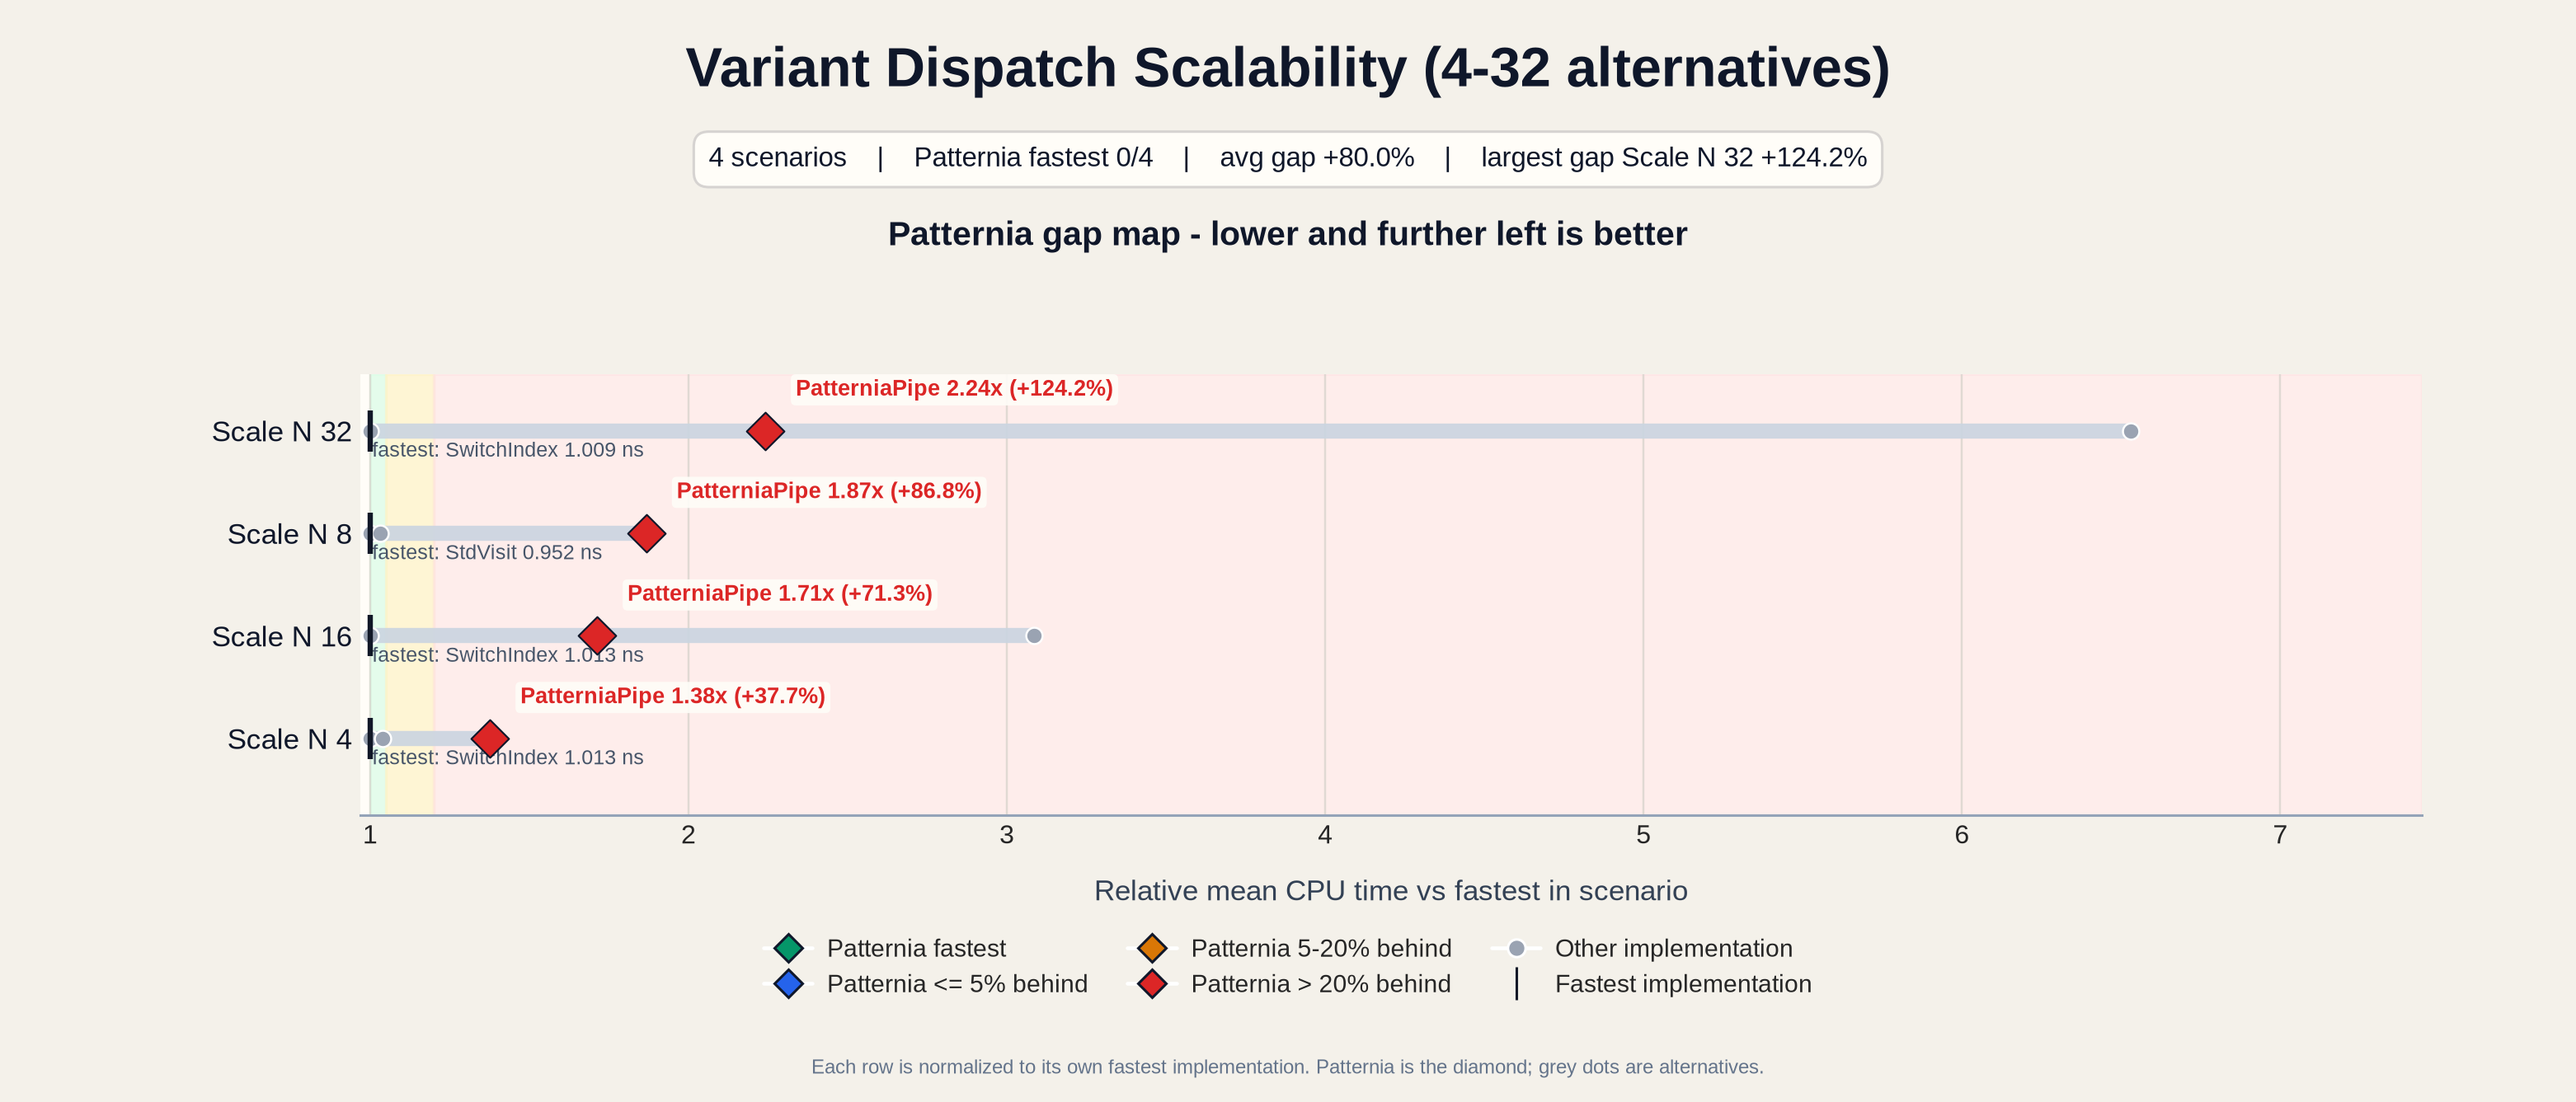
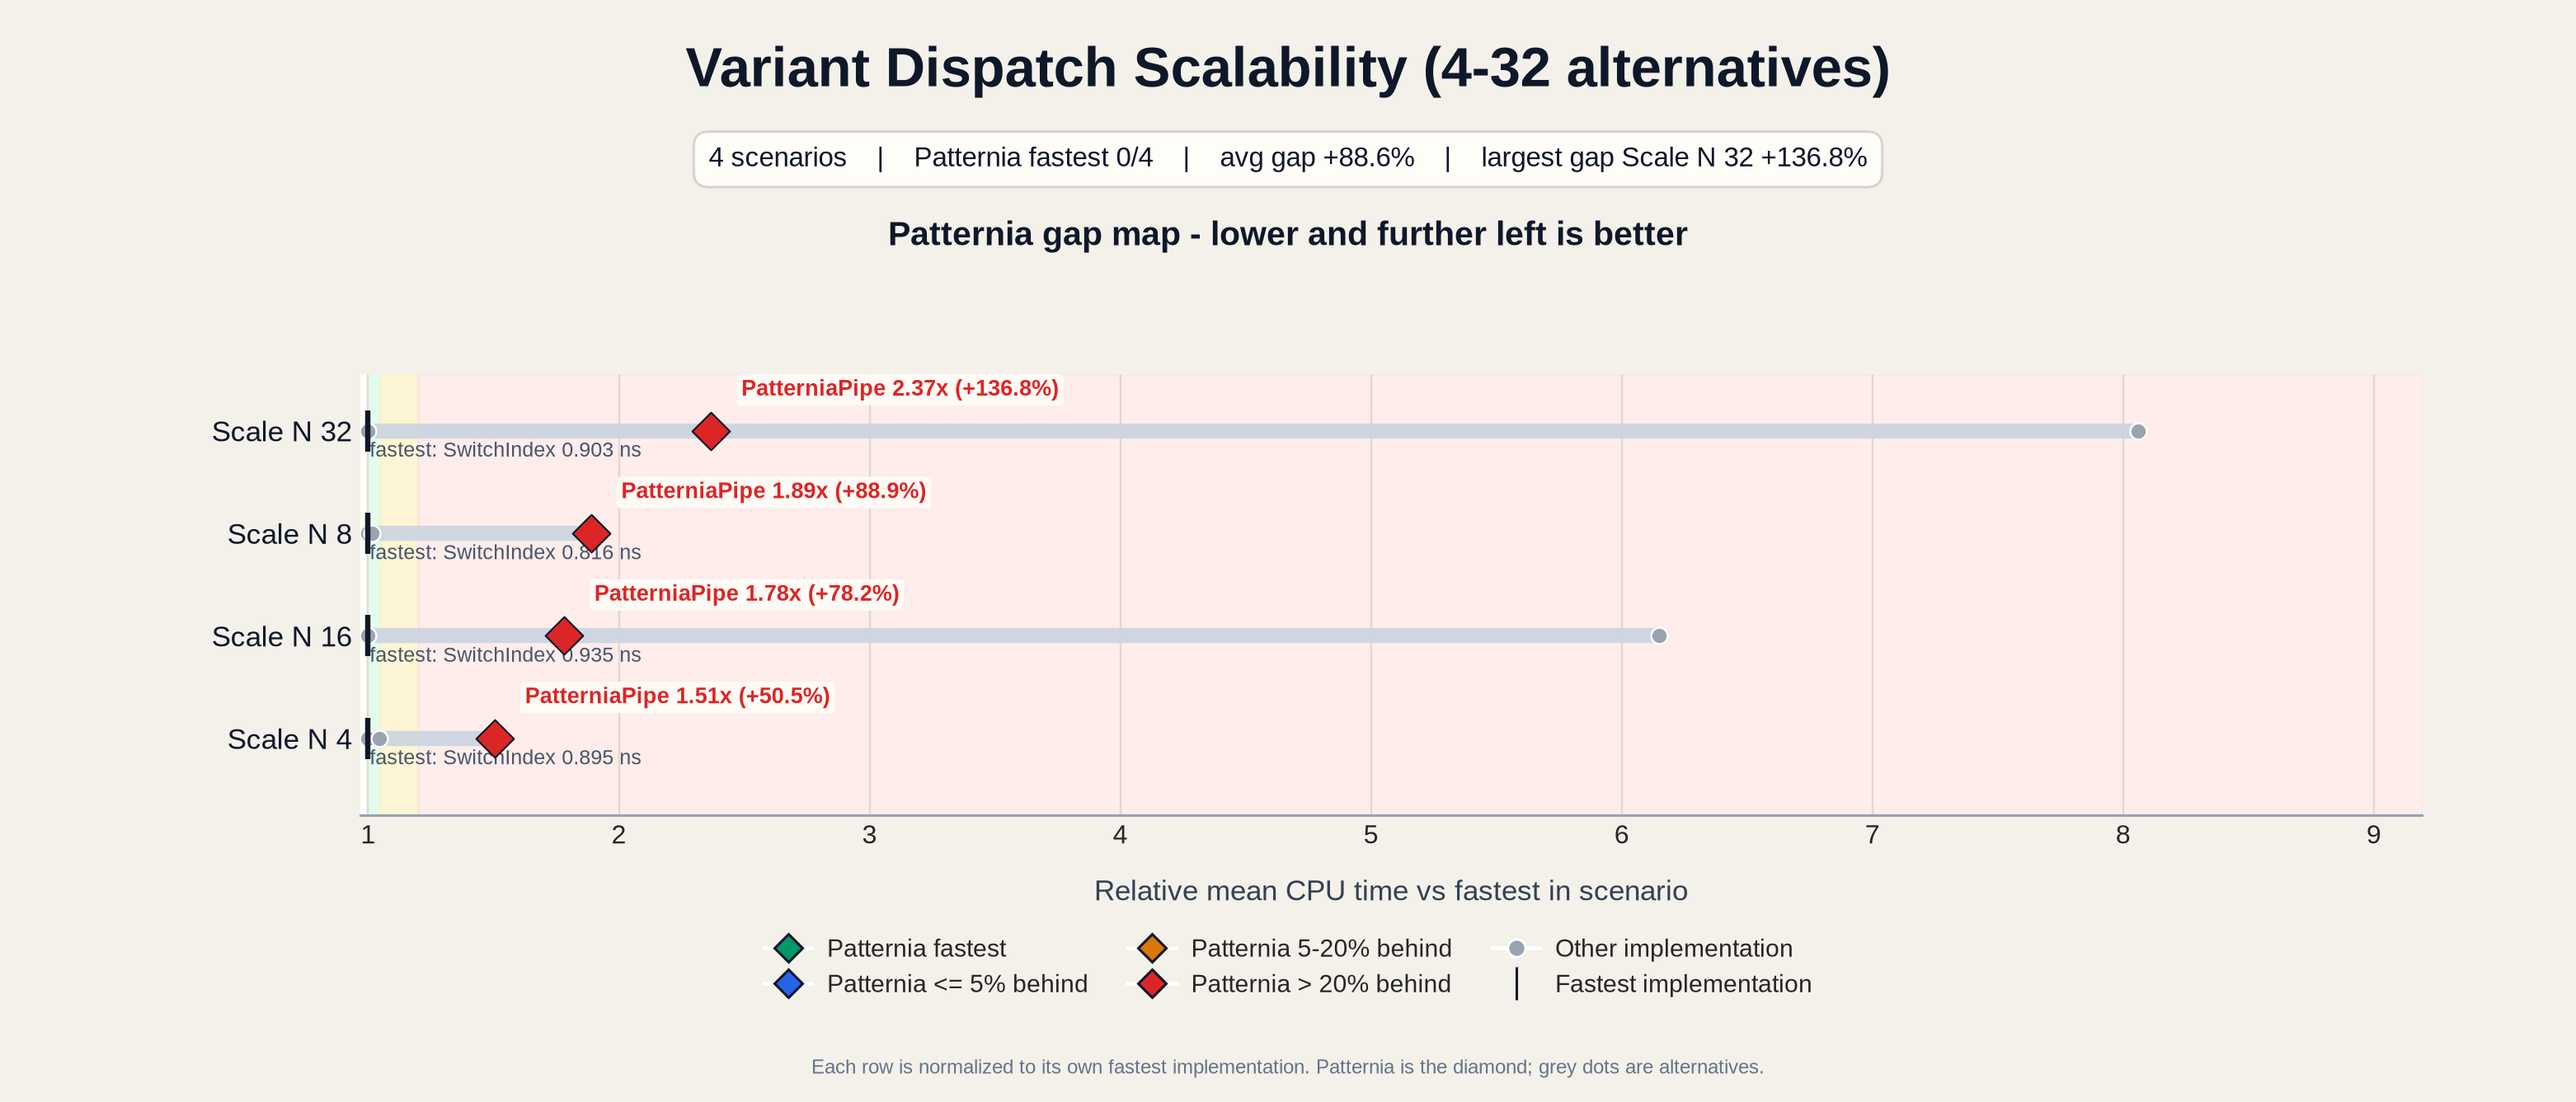
ci: update benchmark summary chart

diff --git a/docs/assets/bench/latest.md b/docs/assets/bench/latest.md
@@ -2,22 +2,22 @@
 
 - Source: `bench_results/ptn_bench.json`
 - Scenarios: `8`
-- Patternia fastest: `2/8`
-- Average Patternia gap vs fastest: `+32.83%`
-- Largest Patternia gap: `VariantMixed` `+99.40%` vs `SwitchIndex`
+- Patternia fastest: `1/8`
+- Average Patternia gap vs fastest: `+24.60%`
+- Largest Patternia gap: `VariantMixed` `+98.42%` vs `SwitchIndex`
 
 ## Patternia Focus
 
 | Scenario | Patternia impl | Rank | Patternia mean (ns) | Fastest | Fastest mean (ns) | Gap vs fastest | Patternia CV % | Status |
 |---|---:|---:|---:|---:|---:|---:|---:|---:|
-| VariantMixed | PatterniaPipe | 3/4 | 2.130 | SwitchIndex | 1.068 | +99.40% | 0.21 | slow |
-| VariantMixedGuarded | PatterniaPipe | 3/4 | 2.100 | SwitchIndex | 1.156 | +81.69% | 3.44 | slow |
-| CommandParser | PatterniaPipe | 4/4 | 2.011 | StdVisit | 1.427 | +40.89% | 1.53 | slow |
-| PacketMixedHeavyBind | PatterniaPipe | 2/2 | 1.961 | Switch | 1.600 | +22.54% | 0.85 | slow |
-| PacketMixed | PatterniaPipe | 2/2 | 1.819 | Switch | 1.548 | +17.56% | 0.13 | watch |
-| ProtocolRouter | PatterniaPipe | 2/4 | 1.701 | StdVisit | 1.692 | +0.55% | 0.72 | close |
-| VariantAltHot | PatterniaPipe | 1/4 | 1.761 | PatterniaPipe | 1.761 | +0.00% | 0.76 | fastest |
-| VariantAltHotGuarded | PatterniaPipe | 1/4 | 1.930 | PatterniaPipe | 1.930 | +0.00% | 1.04 | fastest |
+| VariantMixed | PatterniaPipe | 4/4 | 1.998 | SwitchIndex | 1.007 | +98.42% | 0.22 | slow |
+| VariantMixedGuarded | PatterniaPipe | 3/4 | 1.995 | Sequential | 1.427 | +39.81% | 0.08 | slow |
+| CommandParser | PatterniaPipe | 2/4 | 1.771 | StdVisit | 1.401 | +26.45% | 0.06 | slow |
+| PacketMixedHeavyBind | PatterniaPipe | 2/2 | 1.690 | Switch | 1.493 | +13.25% | 0.46 | watch |
+| PacketMixed | PatterniaPipe | 2/2 | 1.622 | Switch | 1.447 | +12.07% | 0.27 | watch |
+| ProtocolRouter | PatterniaPipe | 3/4 | 1.617 | StdVisit | 1.516 | +6.68% | 0.21 | watch |
+| VariantAltHot | PatterniaPipe | 2/4 | 1.558 | StdVisit | 1.556 | +0.11% | 0.27 | close |
+| VariantAltHotGuarded | PatterniaPipe | 1/4 | 1.715 | PatterniaPipe | 1.715 | +0.00% | 0.61 | fastest |
 
 ---
 
@@ -26,67 +26,67 @@
 
 | Impl | Mean (ns) | vs fastest | vs Patternia | CV % |
 |---|---:|---:|---:|---:|
-| SwitchIndex | 1.068 | fastest | -49.85% | 0.19 |
-| Sequential | 1.191 | +11.50% | -44.08% | 4.93 |
-| **PatterniaPipe** | 2.130 | +99.40% | - | 0.21 |
-| StdVisit | 3.188 | +198.46% | +49.68% | 0.09 |
+| SwitchIndex | 1.007 | fastest | -49.60% | 0.26 |
+| Sequential | 1.168 | +16.03% | -41.53% | 0.12 |
+| StdVisit | 1.991 | +97.69% | -0.37% | 0.10 |
+| **PatterniaPipe** | 1.998 | +98.42% | - | 0.22 |
 
 ### VariantMixedGuarded
 
 | Impl | Mean (ns) | vs fastest | vs Patternia | CV % |
 |---|---:|---:|---:|---:|
-| SwitchIndex | 1.156 | fastest | -44.96% | 0.23 |
-| Sequential | 1.228 | +6.22% | -41.54% | 1.26 |
-| **PatterniaPipe** | 2.100 | +81.69% | - | 3.44 |
-| StdVisit | 2.313 | +100.11% | +10.13% | 0.65 |
+| Sequential | 1.427 | fastest | -28.48% | 0.28 |
+| SwitchIndex | 1.429 | +0.13% | -28.39% | 1.73 |
+| **PatterniaPipe** | 1.995 | +39.81% | - | 0.08 |
+| StdVisit | 2.153 | +50.90% | +7.93% | 0.15 |
 
 ### CommandParser
 
 | Impl | Mean (ns) | vs fastest | vs Patternia | CV % |
 |---|---:|---:|---:|---:|
-| StdVisit | 1.427 | fastest | -29.02% | 0.74 |
-| Switch | 1.800 | +26.14% | -10.47% | 0.86 |
-| IfElse | 1.847 | +29.41% | -8.15% | 0.57 |
-| **PatterniaPipe** | 2.011 | +40.89% | - | 1.53 |
+| StdVisit | 1.401 | fastest | -20.92% | 0.62 |
+| **PatterniaPipe** | 1.771 | +26.45% | - | 0.06 |
+| IfElse | 2.202 | +57.25% | +24.35% | 0.56 |
+| Switch | 2.248 | +60.48% | +26.91% | 0.12 |
 
 ### PacketMixedHeavyBind
 
 | Impl | Mean (ns) | vs fastest | vs Patternia | CV % |
 |---|---:|---:|---:|---:|
-| Switch | 1.600 | fastest | -18.40% | 0.21 |
-| **PatterniaPipe** | 1.961 | +22.54% | - | 0.85 |
+| Switch | 1.493 | fastest | -11.70% | 0.19 |
+| **PatterniaPipe** | 1.690 | +13.25% | - | 0.46 |
 
 ### PacketMixed
 
 | Impl | Mean (ns) | vs fastest | vs Patternia | CV % |
 |---|---:|---:|---:|---:|
-| Switch | 1.548 | fastest | -14.94% | 1.16 |
-| **PatterniaPipe** | 1.819 | +17.56% | - | 0.13 |
+| Switch | 1.447 | fastest | -10.77% | 1.35 |
+| **PatterniaPipe** | 1.622 | +12.07% | - | 0.27 |
 
 ### ProtocolRouter
 
 | Impl | Mean (ns) | vs fastest | vs Patternia | CV % |
 |---|---:|---:|---:|---:|
-| StdVisit | 1.692 | fastest | -0.55% | 0.58 |
-| **PatterniaPipe** | 1.701 | +0.55% | - | 0.72 |
-| Switch | 1.708 | +0.95% | +0.40% | 2.88 |
-| IfElse | 2.264 | +33.86% | +33.13% | 1.45 |
+| StdVisit | 1.516 | fastest | -6.26% | 0.20 |
+| Switch | 1.592 | +4.99% | -1.58% | 0.47 |
+| **PatterniaPipe** | 1.617 | +6.68% | - | 0.21 |
+| IfElse | 1.937 | +27.75% | +19.75% | 5.47 |
 
 ### VariantAltHot
 
 | Impl | Mean (ns) | vs fastest | vs Patternia | CV % |
 |---|---:|---:|---:|---:|
-| **PatterniaPipe** | 1.761 | fastest | - | 0.76 |
-| StdVisit | 1.832 | +4.00% | +4.00% | 18.67 |
-| Sequential | 1.936 | +9.94% | +9.94% | 0.34 |
-| SwitchIndex | 2.216 | +25.80% | +25.80% | 15.47 |
+| StdVisit | 1.556 | fastest | -0.11% | 0.06 |
+| **PatterniaPipe** | 1.558 | +0.11% | - | 0.27 |
+| SwitchIndex | 1.712 | +9.99% | +9.87% | 0.08 |
+| Sequential | 1.735 | +11.49% | +11.36% | 5.93 |
 
 ### VariantAltHotGuarded
 
 | Impl | Mean (ns) | vs fastest | vs Patternia | CV % |
 |---|---:|---:|---:|---:|
-| **PatterniaPipe** | 1.930 | fastest | - | 1.04 |
-| Sequential | 2.550 | +32.14% | +32.14% | 3.56 |
-| SwitchIndex | 2.638 | +36.70% | +36.70% | 0.13 |
-| StdVisit | 2.860 | +48.23% | +48.23% | 13.33 |
+| **PatterniaPipe** | 1.715 | fastest | - | 0.61 |
+| StdVisit | 1.723 | +0.45% | +0.45% | 0.84 |
+| SwitchIndex | 1.868 | +8.95% | +8.95% | 0.10 |
+| Sequential | 2.336 | +36.18% | +36.18% | 0.20 |
 

diff --git a/docs/assets/bench/scale.md b/docs/assets/bench/scale.md
@@ -3,17 +3,17 @@
 - Source: `bench_results/ptn_bench_scale.json`
 - Scenarios: `4`
 - Patternia fastest: `0/4`
-- Average Patternia gap vs fastest: `+80.00%`
-- Largest Patternia gap: `ScaleN32` `+124.18%` vs `SwitchIndex`
+- Average Patternia gap vs fastest: `+88.59%`
+- Largest Patternia gap: `ScaleN32` `+136.81%` vs `SwitchIndex`
 
 ## Patternia Focus
 
 | Scenario | Patternia impl | Rank | Patternia mean (ns) | Fastest | Fastest mean (ns) | Gap vs fastest | Patternia CV % | Status |
 |---|---:|---:|---:|---:|---:|---:|---:|---:|
-| ScaleN32 | PatterniaPipe | 2/3 | 2.261 | SwitchIndex | 1.009 | +124.18% | 1.46 | slow |
-| ScaleN8 | PatterniaPipe | 3/3 | 1.779 | StdVisit | 0.952 | +86.79% | 2.45 | slow |
-| ScaleN16 | PatterniaPipe | 2/3 | 1.735 | SwitchIndex | 1.013 | +71.34% | 0.85 | slow |
-| ScaleN4 | PatterniaPipe | 3/3 | 1.395 | SwitchIndex | 1.013 | +37.69% | 0.21 | slow |
+| ScaleN32 | PatterniaPipe | 2/3 | 2.138 | SwitchIndex | 0.903 | +136.81% | 0.52 | slow |
+| ScaleN8 | PatterniaPipe | 3/3 | 1.541 | SwitchIndex | 0.816 | +88.90% | 0.13 | slow |
+| ScaleN16 | PatterniaPipe | 2/3 | 1.665 | SwitchIndex | 0.935 | +78.16% | 0.42 | slow |
+| ScaleN4 | PatterniaPipe | 3/3 | 1.347 | SwitchIndex | 0.895 | +50.51% | 0.74 | slow |
 
 ---
 
@@ -22,31 +22,31 @@
 
 | Impl | Mean (ns) | vs fastest | vs Patternia | CV % |
 |---|---:|---:|---:|---:|
-| SwitchIndex | 1.009 | fastest | -55.39% | 0.17 |
-| **PatterniaPipe** | 2.261 | +124.18% | - | 1.46 |
-| StdVisit | 6.585 | +552.90% | +191.25% | 0.12 |
+| SwitchIndex | 0.903 | fastest | -57.77% | 0.32 |
+| **PatterniaPipe** | 2.138 | +136.81% | - | 0.52 |
+| StdVisit | 7.278 | +706.10% | +240.40% | 7.38 |
 
 ### ScaleN8
 
 | Impl | Mean (ns) | vs fastest | vs Patternia | CV % |
 |---|---:|---:|---:|---:|
-| StdVisit | 0.952 | fastest | -46.46% | 0.19 |
-| SwitchIndex | 0.982 | +3.13% | -44.79% | 3.74 |
-| **PatterniaPipe** | 1.779 | +86.79% | - | 2.45 |
+| SwitchIndex | 0.816 | fastest | -47.06% | 1.73 |
+| StdVisit | 0.829 | +1.60% | -46.21% | 0.31 |
+| **PatterniaPipe** | 1.541 | +88.90% | - | 0.13 |
 
 ### ScaleN16
 
 | Impl | Mean (ns) | vs fastest | vs Patternia | CV % |
 |---|---:|---:|---:|---:|
-| SwitchIndex | 1.013 | fastest | -41.64% | 0.11 |
-| **PatterniaPipe** | 1.735 | +71.34% | - | 0.85 |
-| StdVisit | 3.125 | +208.53% | +80.07% | 0.04 |
+| SwitchIndex | 0.935 | fastest | -43.87% | 2.16 |
+| **PatterniaPipe** | 1.665 | +78.16% | - | 0.42 |
+| StdVisit | 5.748 | +515.00% | +245.19% | 0.91 |
 
 ### ScaleN4
 
 | Impl | Mean (ns) | vs fastest | vs Patternia | CV % |
 |---|---:|---:|---:|---:|
-| SwitchIndex | 1.013 | fastest | -27.37% | 0.82 |
-| StdVisit | 1.052 | +3.84% | -24.58% | 0.13 |
-| **PatterniaPipe** | 1.395 | +37.69% | - | 0.21 |
+| SwitchIndex | 0.895 | fastest | -33.56% | 0.21 |
+| StdVisit | 0.935 | +4.45% | -30.60% | 0.13 |
+| **PatterniaPipe** | 1.347 | +50.51% | - | 0.74 |
 
